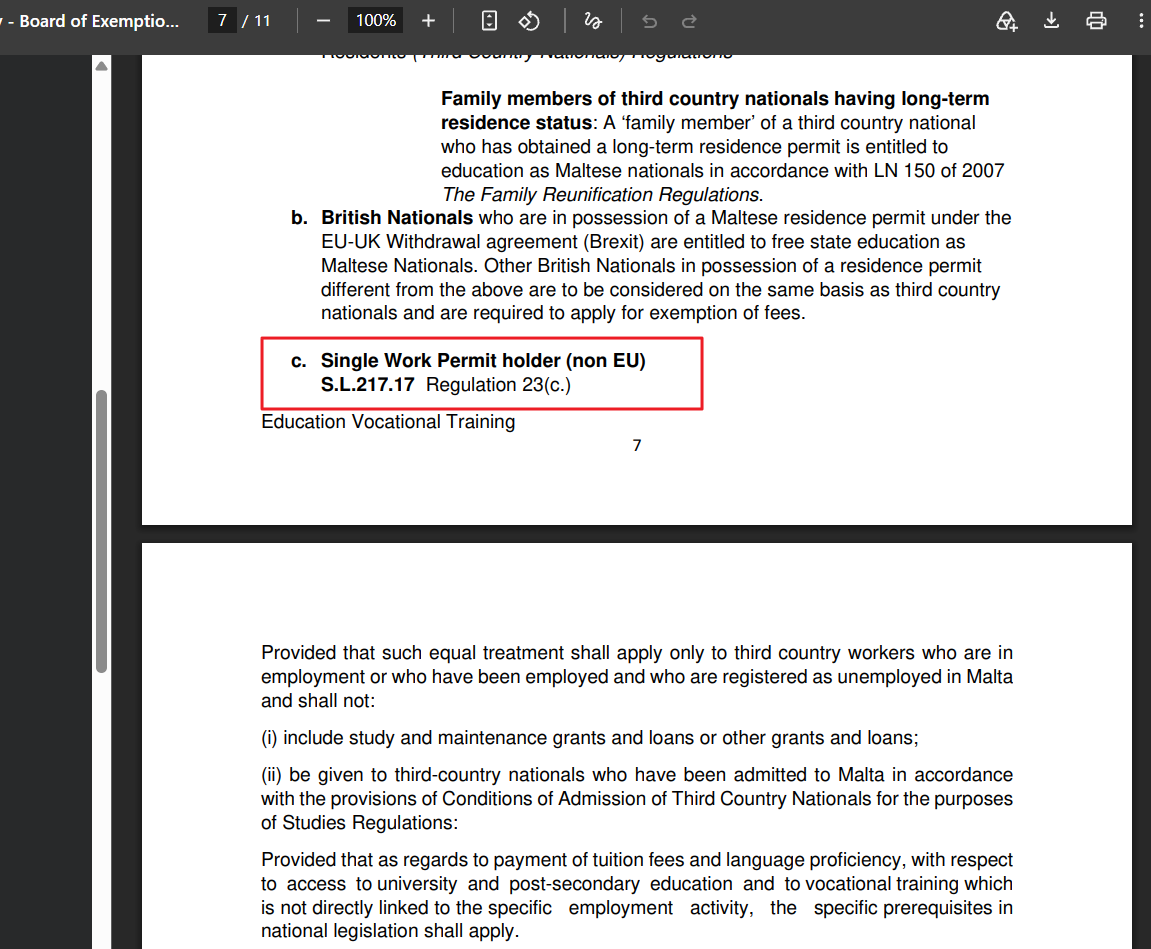
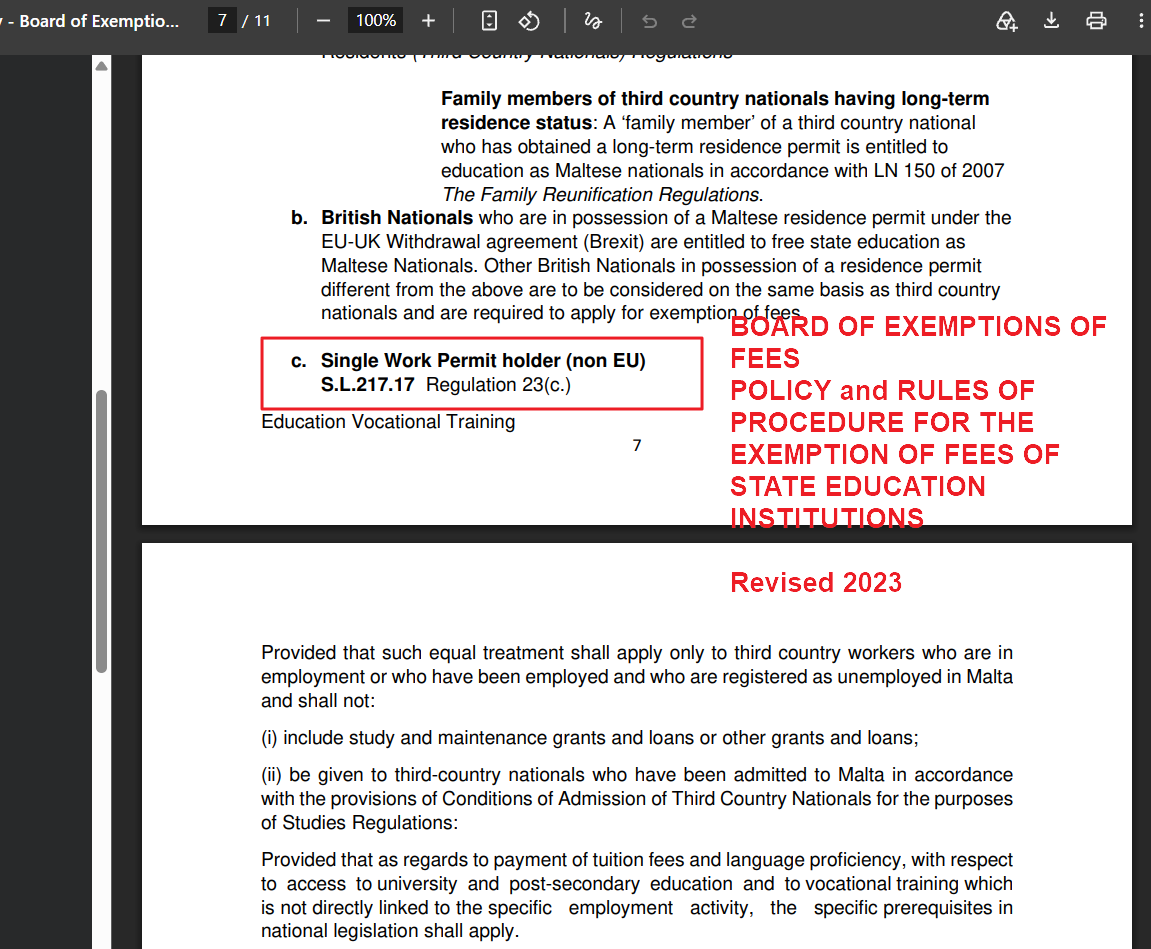
1

Changed region(s): [[0.6386, 0.3361, 0.9731, 0.6417]]

diff --git a/MPRP/private.md b/MPRP/private.md
@@ -234,7 +234,7 @@ Dear Exemption Board and Ministry for Education,
 
 Last week, I asked a very simple question:
 
-**Is an MPRP holder who also holds a valid Jobsplus Employment Licence and is lawfully working in Malta treated the same as an MPRP holder without a work permit, or differently?**
+**Is an MPRP holder who also holds a valid Jobsplus Employment Licence and is lawfully employed in Malta treated the same as an MPRP holder without a work permit for post-secondary and tertiary tuition-fee exemptions, or differently?**
 
 **Same treatment or different treatment?**
 
@@ -248,7 +248,7 @@ Your responses repeatedly refer to **“MPRP holders”**, while consistently av
 
 **This distinction cannot simply be ignored.**
 
-Your 2023 Policy expressly relies on **S.L.217.17 Regulation 23(c)** when addressing Single Permit holders. Yet Regulation 23 expressly refers to third-country workers falling under Regulation 3(b) **and** 3(c), not exclusively to Single Permit holders.
+Your 2023 Policy expressly relies on **`S.L.217.17` Regulation 23(c)** when addressing Single Permit holders. Yet Regulation 23 expressly refers to third-country workers falling under Regulation 3(b) **and** 3(c), not exclusively to Single Permit holders.
 
 ![alt text](./img/image_20261019_085352.png)
 
@@ -256,15 +256,17 @@ Your 2023 Policy expressly relies on **S.L.217.17 Regulation 23(c)** when addres
 
 An MPRP beneficiary who separately holds a valid Jobsplus Employment Licence and works lawfully in Malta may also fall within that statutory framework. His residence status does not, by itself, erase his separate status as a lawful worker.
 
-**If S.L.217.17 forms the basis for considering tuition-fee exemptions for Single Permit workers and their dependants, why is the same worker-based framework not applied to MPRP workers and their dependants?**
+**If `S.L.217.17` forms the basis for considering tuition-fee exemptions for Single Permit workers and their dependants, why is the same worker-based framework not applied to MPRP workers and their dependants?**
 
 The Board's continued reliance on the label “MPRP holder”, without addressing this question, gives the impression that the policy distinguishes between two categories of lawful TCN workers solely on the basis of their residence-permit type.
 
 **I am not asking for preferential treatment. I am asking why workers who may fall under the same statutory framework are treated differently, particularly in relation to their children's post-secondary education.**
 
+What makes this distinction even more difficult to justify is that your own policy (Revised 2023) already recognises the relevance of a valid work permit for MPRP families at compulsory education level. An MPRP holder without a work permit is treated differently from an MPRP holder with a work permit for primary and secondary school fee exemptions. Residency Malta's official FAQ Q90 expressly links this worker-based route for children to S.L. 217.17 and the Education Act. How, then, **can the same worker status be recognised for children's fee exemptions during compulsory education, but completely disregarded when those children progress to post-secondary education?**
+
 Please now provide a direct answer:
 
-**1. Same treatment or different treatment for MPRP holders with valid Jobsplus Employment Licences, compared with MPRP holders without work permits?**
+**1. Same treatment or different treatment for MPRP holders with valid Jobsplus Employment Licences, compared with MPRP holders without work permits, for post-secondary and tertiary tuition-fee exemptions?**
 
 **2. If the Board excludes MPRP workers and their dependants from the worker-based exemption route available to Single Permit workers and their dependants, what precise statutory provision authorises that distinction?**
 
